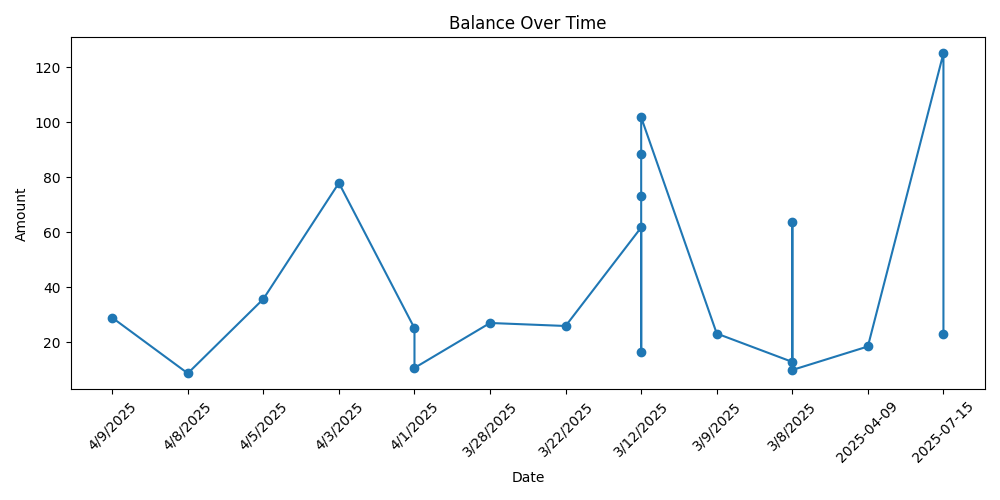
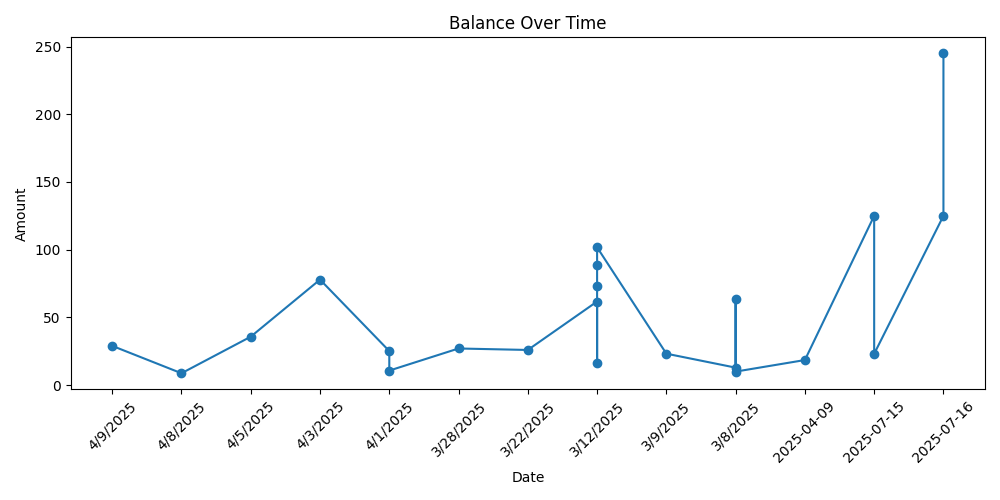
Fixed the Catagory dropdown to correctly upload the catagory after uploading new transaction

diff --git a/Python/Main_File.py b/Python/Main_File.py
@@ -103,13 +103,14 @@ def add_activity():
     business_establishment = request.form['business_establishment']
     amount = request.form['amount']
     date = request.form['date']
+    catagory = request.form['catagory']
 
     new_transaction = { # can be in any order but must match the Above CSV header
         'Type': transaction_type,
         'Description': business_establishment,
         'Amount': float(amount),
         'Date': date,  # BTW has different format that Date in csv file
-        'Category': "yes"   
+        'Category': catagory 
     }   
     print(accman.df)
     # "add" new row at the bottom of the DataFrame
@@ -123,8 +124,8 @@ def add_activity():
 
     return redirect(url_for('index'))
 
-@app.route('/purchase', methods=['POST'])
-def purchase(self, amount, catagory):
+#@app.route('/purchase', methods=['POST'])
+#def purchase(self, amount, catagory):
         """Adds purchase activity and subtracts from the balance. Hopefully warns & 
         denies the purchase if the user doesn't have the balance to cover it,"""
 

diff --git a/to_do.py b/to_do.py
@@ -2,8 +2,8 @@ ________________________________________________________________________________
 #####TO DO####
 #Troubleshoot why Business Establishment isnt loading on server
 #general spellcheck
-#See why Catagories is returning as "yes" for new transactions
-#test the refunds
+
+#Change plot to show current balamce instead of purchase amount
 
 
 ________________________________________________________________________________
@@ -18,3 +18,5 @@ ________________________________________________________________________________
 #In HTML move the current balance number to the right of "Current Balance:"
 #add catagory in HTML and update CSV for catagories
 #trhoubleshhoot the Plot Action(Why is it not plotting?)
+#test Refund Function
+#See why Catagories is returning as "yes" for new transactions
